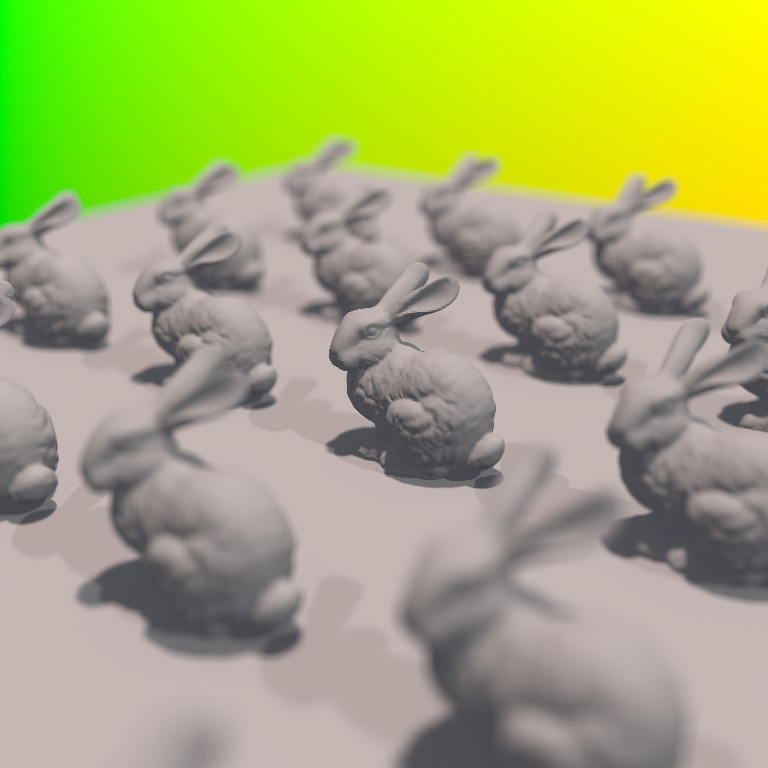
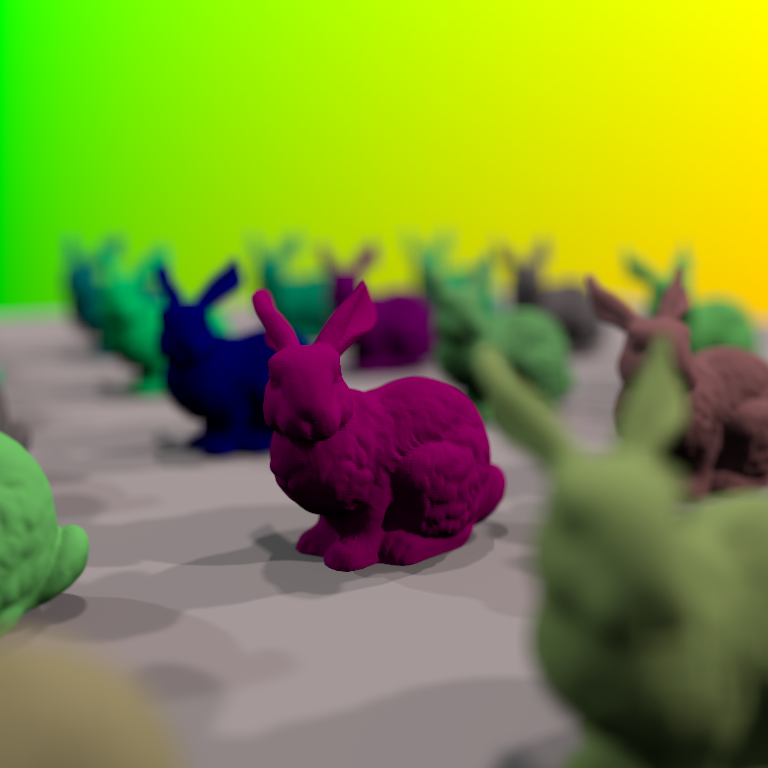
add materials

diff --git a/SDK/imgui_test/triangle_gas.cpp b/SDK/imgui_test/triangle_gas.cpp
@@ -11,11 +11,12 @@
 #include <optix_stubs.h>
 // #include <optix_function_table_definition.h>
 
-std::tuple<std::vector<float3>, std::vector<float3>> load_assimp(const std::string &filename)
+std::tuple<std::vector<float3>, std::vector<float3>, std::vector<int>> load_assimp(const std::string &filename)
 {
     std::vector<float3> vertices;
     std::vector<float3> normals;
-    Assimp::Importer importer;
+    std::vector<int>    mat_indices;
+    Assimp::Importer    importer;
 
     spdlog::info("loading bunny");
     const aiScene *scene = importer.ReadFile(filename,
@@ -25,7 +26,7 @@ std::tuple<std::vector<float3>, std::vector<float3>> load_assimp(const std::stri
 
     if (scene == nullptr) {
         spdlog::error("{}", importer.GetErrorString());
-        return { vertices, normals };
+        return { vertices, normals, mat_indices };
     }
 
     spdlog::info("scene has {} meshes", scene->mNumMeshes);
@@ -36,7 +37,7 @@ std::tuple<std::vector<float3>, std::vector<float3>> load_assimp(const std::stri
     };
 
     float floor = 1.0e12f;
-    float f_ = 0.0f;
+    float f_    = 0.0f;
 
     for (size_t i = 0; i < scene->mNumMeshes; ++i) {
         const aiMesh *mesh = scene->mMeshes[i];
@@ -48,6 +49,8 @@ std::tuple<std::vector<float3>, std::vector<float3>> load_assimp(const std::stri
             vertices.push_back(aiVect_to_float3(mesh->mVertices[face.mIndices[0]], floor));
             vertices.push_back(aiVect_to_float3(mesh->mVertices[face.mIndices[1]], floor));
             vertices.push_back(aiVect_to_float3(mesh->mVertices[face.mIndices[2]], floor));
+            mat_indices.push_back(0);
+
 
             if (mesh->HasNormals()) {
                 normals.push_back(aiVect_to_float3(mesh->mNormals[face.mIndices[0]], f_));
@@ -69,6 +72,7 @@ std::tuple<std::vector<float3>, std::vector<float3>> load_assimp(const std::stri
                 new_vert.z += 0.25f * y;
                 vertices.push_back(new_vert);
             }
+            for (size_t v = 0; v < nvertices / 3; ++v) { mat_indices.push_back((y + 2) * 3 + x + 1); }
         }
 
     // add tesselated floor
@@ -83,13 +87,16 @@ std::tuple<std::vector<float3>, std::vector<float3>> load_assimp(const std::stri
             vertices.push_back({ (float)i * 0.1f, floor, (float)(j + 1) * 0.1f });
             vertices.push_back({ (float)(i + 1) * 0.1f, floor, (float)(j + 1) * 0.1f });
 
+            mat_indices.push_back(26);
+            mat_indices.push_back(26);
+
             for (int n = 0; n < 6; ++n) { normals.push_back({ 0.0, 1.0, 0.0 }); }
         }
     }
 
     spdlog::info("size of vertices: {:.3} MB", static_cast<float>(vertices.size()) * sizeof(float3) / 1024 / 1024);
 
-    return { vertices, normals };
+    return { vertices, normals, mat_indices };
 }
 
 TriangleGAS::TriangleGAS(const Device &device, const std::string &filename)
@@ -101,13 +108,14 @@ TriangleGAS::TriangleGAS(const Device &device, const std::string &filename)
         // Use default options for simplicity.  In a real use case we would want to
         // enable compaction, etc
         OptixAccelBuildOptions accel_options = {};
-        accel_options.buildFlags = OPTIX_BUILD_FLAG_NONE;
-        accel_options.operation = OPTIX_BUILD_OPERATION_BUILD;
+        accel_options.buildFlags             = OPTIX_BUILD_FLAG_NONE;
+        accel_options.operation              = OPTIX_BUILD_OPERATION_BUILD;
 
         // Triangle build input: simple list of three vertices
-        const auto [vertices, normals] = load_assimp(filename);
-        m_vertices = vertices;
-        m_normals = normals;
+        const auto [vertices, normals, mat_indices] = load_assimp(filename);
+        m_vertices                                  = vertices;
+        m_normals                                   = normals;
+        m_mat_indices                               = mat_indices;
 
         if (m_vertices.size() == 0) { throw std::runtime_error("couldn't load model"); }
         // const std::vector<float3> vertices = make_geometry();
@@ -118,19 +126,19 @@ TriangleGAS::TriangleGAS(const Device &device, const std::string &filename)
         */
 
         const size_t vertices_size = sizeof(float3) * m_vertices.size();
-        CUdeviceptr d_vertices = 0;
+        CUdeviceptr  d_vertices    = 0;
         CUDA_CHECK(cudaMalloc(reinterpret_cast<void **>(&d_vertices), vertices_size));
         CUDA_CHECK(
             cudaMemcpy(reinterpret_cast<void *>(d_vertices), m_vertices.data(), vertices_size, cudaMemcpyHostToDevice));
 
         // Our build input is a simple list of non-indexed triangle vertices
-        const uint32_t triangle_input_flags[1] = { OPTIX_GEOMETRY_FLAG_NONE };
-        OptixBuildInput triangle_input = {};
-        triangle_input.type = OPTIX_BUILD_INPUT_TYPE_TRIANGLES;
-        triangle_input.triangleArray.vertexFormat = OPTIX_VERTEX_FORMAT_FLOAT3;
-        triangle_input.triangleArray.numVertices = static_cast<uint32_t>(m_vertices.size());
+        const uint32_t  triangle_input_flags[1]    = { OPTIX_GEOMETRY_FLAG_NONE };
+        OptixBuildInput triangle_input             = {};
+        triangle_input.type                        = OPTIX_BUILD_INPUT_TYPE_TRIANGLES;
+        triangle_input.triangleArray.vertexFormat  = OPTIX_VERTEX_FORMAT_FLOAT3;
+        triangle_input.triangleArray.numVertices   = static_cast<uint32_t>(m_vertices.size());
         triangle_input.triangleArray.vertexBuffers = &d_vertices;
-        triangle_input.triangleArray.flags = triangle_input_flags;
+        triangle_input.triangleArray.flags         = triangle_input_flags;
         triangle_input.triangleArray.numSbtRecords = 1;
 
         OPTIX_CHECK(optixAccelComputeMemoryUsage(device.get_context(),

diff --git a/SDK/imgui_test/optixTriangle.h b/SDK/imgui_test/optixTriangle.h
@@ -29,61 +29,80 @@
 //
 //
 #include "camera.h"
-#include "directional_light.h"
-#include "driver_types.h"
-#include "imgui_test/light.h"
-#include "point_light.h"
-#include "volumetric_light.h"
 #include "cuda_runtime.h"
 #include "cuda_runtime_api.h"
+#include "device_object.h"
+#include "diffuse.h"
+#include "driver_types.h"
+#include "light.h"
 #include "optix_types.h"
 #include "vector_types.h"
-#include "device_object.h"
 #include <vector>
 
-struct Params: public DeviceObject<Params>
+struct Params : public DeviceObject<Params>
 {
     // settings
-    unsigned int image_width = 400;
-    unsigned int image_height = 300;
+    unsigned int image_width       = 400;
+    unsigned int image_height      = 300;
     unsigned int samples_per_frame = 4;
 
     Camera *camera = nullptr;
 
-    // state 
-    unsigned int dt = 0;
-    bool dirty = true; // redraw?
+    // state
+    unsigned int dt    = 0;
+    bool         dirty = true;// redraw?
 
     // buffers
     uchar4 *image = nullptr;
-    float3 *film = nullptr;
+    float3 *film  = nullptr;
 
-    float tfactor = 1.0;
-    OptixTraversableHandle handle = 0;
+    float                  tfactor = 1.0;
+    OptixTraversableHandle handle  = 0;
 
-    // geometry data
-    float3* normals = nullptr;
-    float3* vertices = nullptr;
-    LightVariant* lights = nullptr;
-    int nlights =0;
+    // world data
+    float3          *normals      = nullptr;
+    float3          *vertices     = nullptr;
+    int             *mat_indices  = nullptr;
+    int              nmat_indices = 0;
+    LightVariant    *lights       = nullptr;
+    int              nlights      = 0;
+    DiffuseMaterial *materials    = nullptr;
+    int              nmaterials   = 0;
 
-    __host__ void set_lights(std::vector<LightVariant> const& _lights) {
-        nlights = _lights.size();
-        cudaMalloc(&lights, sizeof(LightVariant) * nlights);
-        cudaMemcpy(lights, _lights.data(), sizeof(LightVariant) * nlights, cudaMemcpyHostToDevice);
+
+    template<typename T> static __host__ void set_vector(std::vector<T> const &elements, T **ptr, int &size)
+    {
+        if (*ptr != nullptr) { cudaFree(*ptr); }
+        size = static_cast<int>(elements.size());
+        cudaMalloc(ptr, sizeof(T) * size);
+        cudaMemcpy(*ptr, elements.data(), sizeof(T) * size, cudaMemcpyHostToDevice);
     }
 
-    __host__ void cleanup() const {
+
+    __host__ void set_mat_indices(std::vector<int> const &_mat_indices)
+    {
+        set_vector(_mat_indices, &mat_indices, nmat_indices);
+    }
+
+    __host__ void set_lights(std::vector<LightVariant> const &_lights) { set_vector(_lights, &lights, nlights); }
+
+    __host__ void set_materials(std::vector<DiffuseMaterial> const &_materials)
+    {
+        set_vector(_materials, &materials, nmaterials);
+    }
+
+    __host__ void cleanup() const
+    {
         cudaFree(film);
         cudaFree(normals);
 
         cudaFree(camera);
         cudaFree(lights);
+        cudaFree(materials);
+        cudaFree(mat_indices);
     }
 
-    __host__ void alloc_film() {
-        cudaMalloc(&film, sizeof(float3) * image_width * image_height);
-    }
+    __host__ void alloc_film() { cudaMalloc(&film, sizeof(float3) * image_width * image_height); }
 
     __host__ void frame_step() { dt += samples_per_frame; }
 };

diff --git a/SDK/imgui_test/triangle_gas.h b/SDK/imgui_test/triangle_gas.h
@@ -18,32 +18,43 @@ class TriangleGAS
   public:
     TriangleGAS(const Device &device, const std::string &filename);
 
-    TriangleGAS(const TriangleGAS &other) = delete;
-    TriangleGAS(TriangleGAS &&other) = delete;
+    TriangleGAS(const TriangleGAS &other)    = delete;
+    TriangleGAS(TriangleGAS &&other)         = delete;
     void operator=(const TriangleGAS &other) = delete;
-    void operator=(TriangleGAS &&other) = delete;
+    void operator=(TriangleGAS &&other)      = delete;
 
 
     ~TriangleGAS();
 
     [[nodiscard]] OptixTraversableHandle get_gas_handle() const noexcept { return m_gas_handle; }
 
-    [[nodiscard]] float3* get_device_normals() const noexcept {
-        float3* ptr = nullptr;
-        cudaMalloc(reinterpret_cast<void**>(&ptr), sizeof(float3) * m_normals.size());
-        cudaMemcpy(reinterpret_cast<void*>(ptr), reinterpret_cast<const void*>(m_normals.data()), sizeof(float3) * m_normals.size(), cudaMemcpyHostToDevice);
+    [[nodiscard]] float3 *get_device_normals() const noexcept
+    {
+        float3 *ptr = nullptr;
+        cudaMalloc(reinterpret_cast<void **>(&ptr), sizeof(float3) * m_normals.size());
+        cudaMemcpy(reinterpret_cast<void *>(ptr),
+            reinterpret_cast<const void *>(m_normals.data()),
+            sizeof(float3) * m_normals.size(),
+            cudaMemcpyHostToDevice);
         return ptr;
     }
 
-    [[nodiscard]] float3* get_device_vertices() const noexcept {
+    [[nodiscard]] float3 *get_device_vertices() const noexcept
+    {
         spdlog::info("copy {} vertices to device", m_vertices.size());
-        float3* ptr = nullptr;
-        cudaMalloc(reinterpret_cast<void**>(&ptr), sizeof(float3) * m_vertices.size());
-        cudaMemcpy(reinterpret_cast<void*>(ptr), reinterpret_cast<const void*>(m_vertices.data()), sizeof(float3) * m_vertices.size(), cudaMemcpyHostToDevice);
+        float3 *ptr = nullptr;
+        cudaMalloc(reinterpret_cast<void **>(&ptr), sizeof(float3) * m_vertices.size());
+        cudaMemcpy(reinterpret_cast<void *>(ptr),
+            reinterpret_cast<const void *>(m_vertices.data()),
+            sizeof(float3) * m_vertices.size(),
+            cudaMemcpyHostToDevice);
         return ptr;
     }
 
-    void imgui() const {
+    [[nodiscard]] std::vector<int> const &get_mat_indices() const { return m_mat_indices; }
+
+    void imgui() const
+    {
         if (ImGui::CollapsingHeader("Triangle GAS")) {
             ImGui::Text("vertices: %d K", m_vertices.size() / 1000);
             ImGui::Text("GAS buffer size: %d MB", m_gas_buffer_sizes.outputSizeInBytes / 1024 / 1024);
@@ -52,12 +63,13 @@ class TriangleGAS
 
   private:
     OptixTraversableHandle m_gas_handle;
-    OptixAccelBufferSizes m_gas_buffer_sizes;
-    CUdeviceptr m_d_gas_output_buffer;
-    std::vector<float3> m_vertices;
-    std::vector<float3> m_normals;
+    OptixAccelBufferSizes  m_gas_buffer_sizes;
+    CUdeviceptr            m_d_gas_output_buffer;
+    std::vector<float3>    m_vertices;
+    std::vector<float3>    m_normals;
+    std::vector<int>       m_mat_indices;
 };
 
-std::tuple<std::vector<float3>, std::vector<float3>> load_assimp(const std::string &filename);
+std::tuple<std::vector<float3>, std::vector<float3>, std::vector<int>> load_assimp(const std::string &filename);
 
 #endif

diff --git a/SDK/imgui_test/main.cpp b/SDK/imgui_test/main.cpp
@@ -243,26 +243,32 @@ int main(int argc, char *argv[])
         cam.compute_uvw();
 
         std::vector<LightVariant> lights;
-        lights.push_back(VolumetricLight({0.0f, 2.0f, 0.0f}, 0.1f, {0.2f, 0.16f, 0.15f}));
-        lights.push_back(DirectionalLight({1.0f, 1.0f, 0.0f}, {0.1f, 0.1f, 0.1f}, 0.05f));
+        lights.emplace_back(VolumetricLight({ 0.0f, 2.0f, 0.0f }, 0.1f, { 0.1f, 0.08f, 0.08f }));
+        lights.emplace_back(VolumetricLight({ 2.0f, 2.0f, 0.0f }, 0.1f, { 0.1f, 0.08f, 0.08f }));
+        lights.emplace_back(VolumetricLight({ 2.0f, 2.0f, 2.0f }, 0.1f, { 0.1f, 0.08f, 0.08f }));
+        lights.emplace_back(DirectionalLight({ -1.0f, 1.0f, -1.0f }, { 0.1f, 0.1f, 0.1f }, 0.05f));
 
-        const auto lumi = lights[0].lumi();
-        spdlog::info("light 1");
-        spdlog::info("{} {} {}", lumi.x, lumi.y, lumi.z);
+        std::vector<DiffuseMaterial> mats;
+
+        for (int i = 0; i < 5; ++i) {
+            for (int j = 0; j < 5; ++j) {
+                mats.push_back(DiffuseMaterial({ static_cast<float>(i) / 5.0f, static_cast<float>(j) / 5.0f, 0.2f }));
+            }
+        }
+        mats.push_back(DiffuseMaterial({ 0.5, 0.5, 0.5 }));
+        mats.push_back(DiffuseMaterial({ 0.5, 0.5, 0.5 }));
 
         Params params;
         params.camera   = cam.new_device_ptr();
-        params.set_lights(lights);
         params.vertices = triangles.get_device_vertices();
         params.handle   = triangles.get_gas_handle();
+        params.set_lights(lights);
+        params.set_materials(mats);
+        params.set_mat_indices(triangles.get_mat_indices());
+
         // params.normals = triangles.get_device_normals();
         params.tfactor = 0.5f;
         params.dt      = 0;
-
-        /*
-        sutil::CUDAOutputBuffer<uchar4> output_buffer(sutil::CUDAOutputBufferType::CUDA_DEVICE, buf_width, buf_height);
-        CUDA_CHECK(cudaMalloc(&params.film, sizeof(float3) * buf_width * buf_height));
-        */
 
         if (gui) {
             TracerWindow window{ stream, pipeline, sbt, params };

diff --git a/SDK/imgui_test/diffuse.h b/SDK/imgui_test/diffuse.h
@@ -1,0 +1,16 @@
+#include <vector_types.h>
+
+class DiffuseMaterial
+{
+  public:
+    explicit DiffuseMaterial(float3 color) : m_color(color) {}
+
+    __host__ __device__ [[nodiscard]] float3
+             f(const float3 &p, const float3 &wi, const float3 &wo, unsigned int &seed) const
+    {
+        return m_color;
+    }
+
+  private:
+    float3 m_color = { 0.5f, 0.5f, 0.5f };
+};
